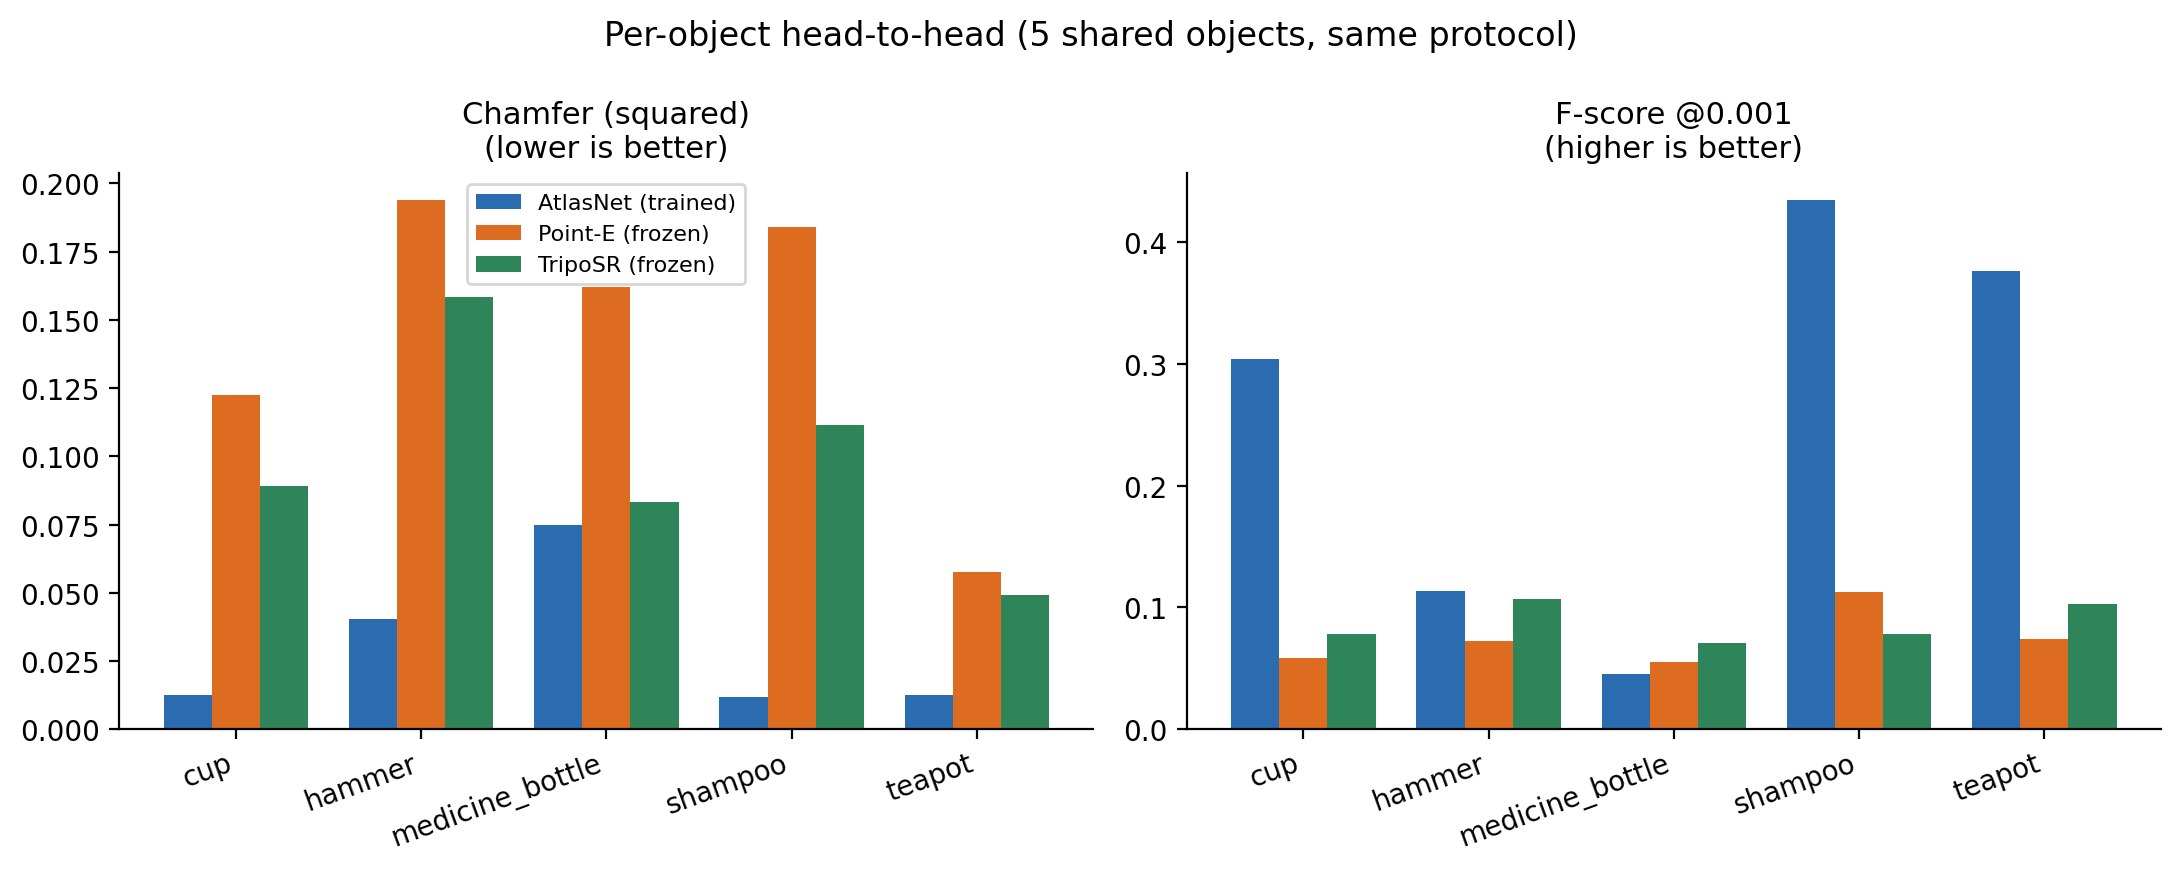
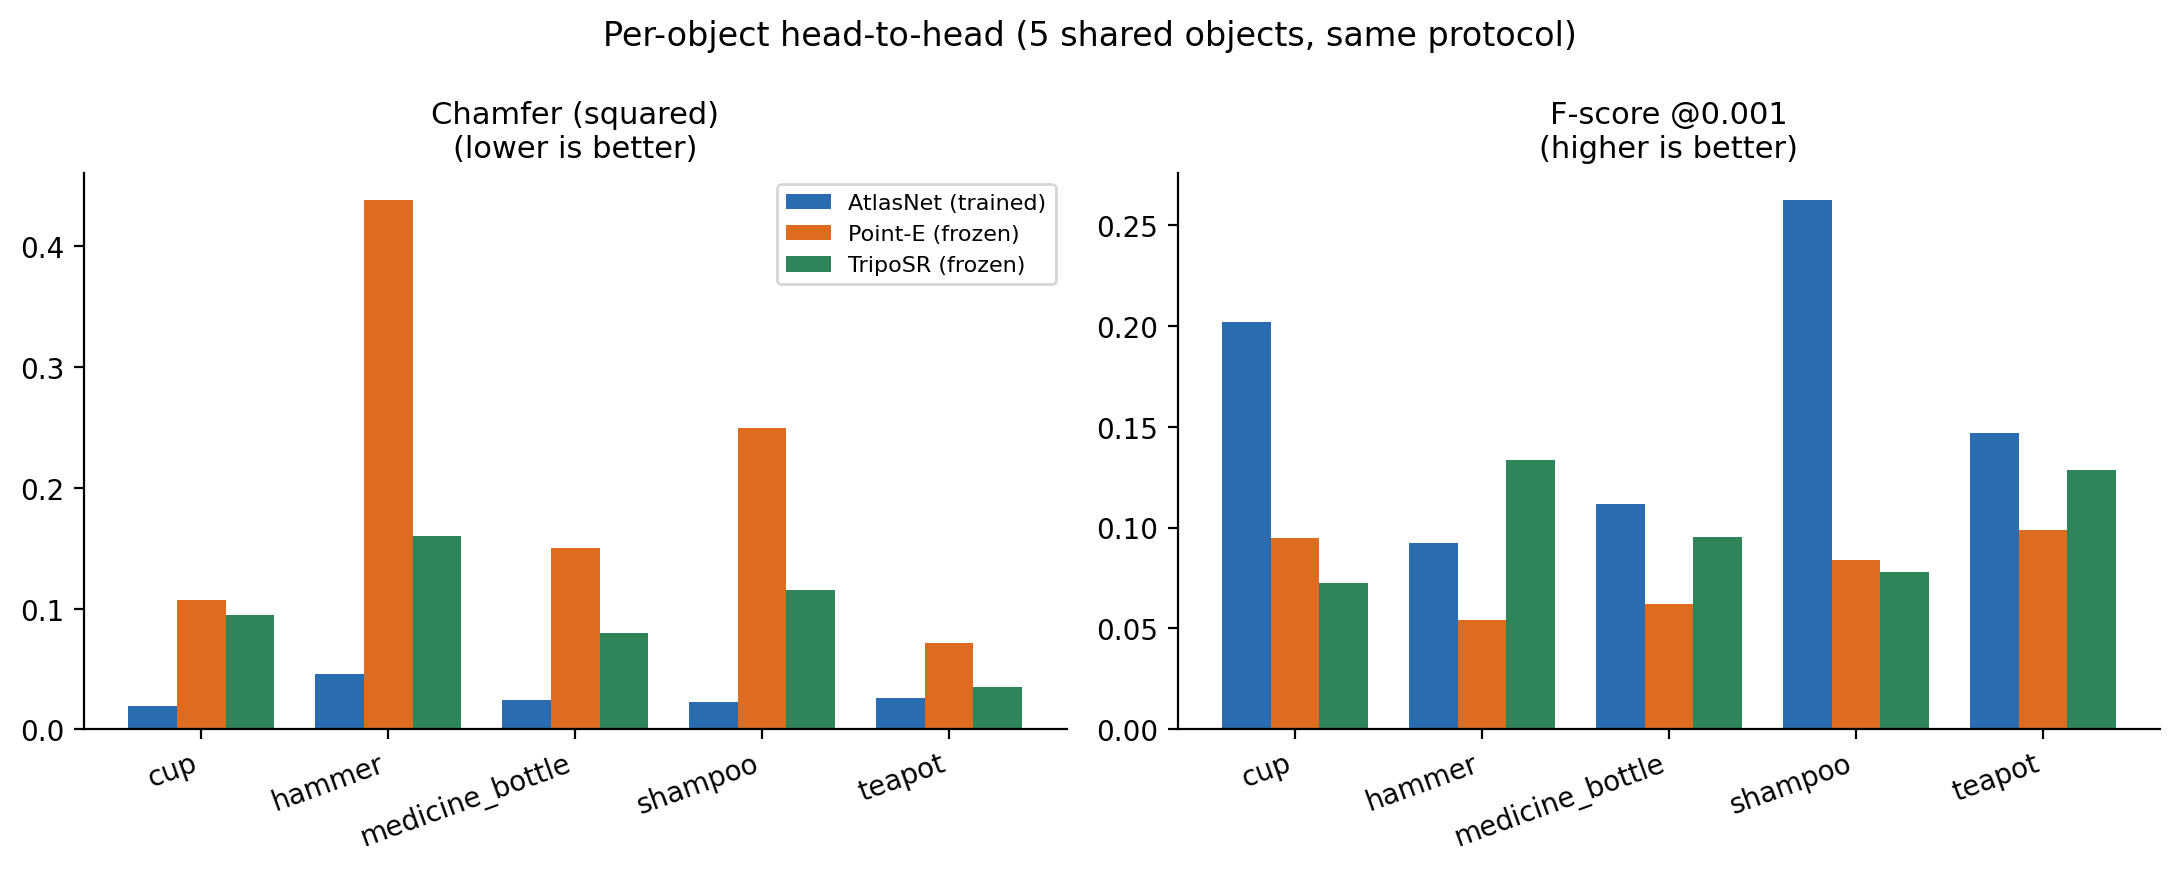
Rework (dataset fix): rebuilt ablation tables, cross table, figures

diff --git a/nesegemaa/REPORT.md b/nesegemaa/REPORT.md
@@ -7,63 +7,63 @@ Protocol (all numbers): splits.json test lists, view `00.png` unless noted, Unit
 
 | run | K_views | pool | patches | template | bottleneck | encoder_train | aug | loss | lr | batch | seed | best_chamfer | best_fscore | status |
 | --- | --- | --- | --- | --- | --- | --- | --- | --- | --- | --- | --- | --- | --- | --- |
-| a1_k3_max | 3 | max | 25 | SQUARE | 1024 | finetuned | none | chamfer | 0.001 | 8 | -1 | 0.04651217204001215 | 0.09291193634271622 | OK |
-| a1_k3_attn | 3 | attn | 25 | SQUARE | 1024 | finetuned | none | chamfer | 0.001 | 8 | -1 | 0.06574219548039967 | 0.09488141702281104 | OK |
-| a1_k5_max | 5 | max | 25 | SQUARE | 1024 | finetuned | none | chamfer | 0.001 | 8 | -1 | 0.053737382094065346 | 0.09317540046241549 | OK |
-| a1_k5_attn | 5 | attn | 25 | SQUARE | 1024 | finetuned | none | chamfer | 0.001 | 8 | -1 | 0.056586981233623296 | 0.09636813484960133 | OK |
-| a1_k8_max | 8 | max | 25 | SQUARE | 1024 | finetuned | none | chamfer | 0.001 | 8 | -1 | 0.06599624206622441 | 0.08251947744025125 | OK |
-| a1_k8_attn | 8 | attn | 25 | SQUARE | 1024 | finetuned | none | chamfer | 0.001 | 8 | -1 | 0.060704423735539116 | 0.08377090841531754 | OK |
-| a2_p1_sq | 1 | none | 1 | SQUARE | 1024 | finetuned | none | chamfer | 0.001 | 8 | -1 | 0.04561556213431888 | 0.08204326530297597 | OK |
-| a2_p10_sq | 1 | none | 10 | SQUARE | 1024 | finetuned | none | chamfer | 0.001 | 8 | -1 | 0.1267646989888615 | 0.07854702572027843 | OK |
-| a2_p25_sphere | 1 | none | 25 | SPHERE | 1024 | finetuned | none | chamfer | 0.001 | 8 | -1 | 0.036068759858608246 | 0.13152664485904905 | OK |
-| a2_p25_4096 | 1 | none | 25 | SQUARE | 1024 | finetuned | none | chamfer | 0.001 | 8 | -1 | 0.04688040167093277 | 0.08909631354941262 | OK |
-| a2_p25_bn512 | 1 | none | 25 | SQUARE | 512 | finetuned | none | chamfer | 0.001 | 8 | -1 | 0.0831894502043724 | 0.07906718138191435 | OK |
-| a3_lr3e4 | 1 | none | 25 | SQUARE | 1024 | finetuned | none | chamfer | 0.0003 | 8 | -1 | 0.16403056184450784 | 0.08060628506872389 | OK |
-| a3_bs16 | 1 | none | 25 | SQUARE | 1024 | finetuned | none | chamfer | 0.001 | 16 | -1 | 0.05010243091318342 | 0.08558411813444561 | OK |
-| a3_bs32 | 1 | none | 25 | SQUARE | 1024 | finetuned | none | chamfer | 0.001 | 32 | -1 | 0.05285551274816195 | 0.09421329448620479 | OK |
-| a3_aug_rot | 1 | none | 25 | SQUARE | 1024 | finetuned | random_rotation | chamfer | 0.001 | 8 | -1 | 0.05411182799273067 | 0.08615856245160103 | OK |
-| a3_aug_flip | 1 | none | 25 | SQUARE | 1024 | finetuned | data_augmentation_random_flips | chamfer | 0.001 | 8 | -1 | 0.07557891764574581 | 0.08232646435499191 | OK |
-| a3_aug_aniso | 1 | none | 25 | SQUARE | 1024 | finetuned | anisotropic_scaling | chamfer | 0.001 | 8 | -1 | 0.0444109116991361 | 0.09440010123782688 | OK |
-| a3_frozen | 1 | none | 25 | SQUARE | 1024 | frozen | none | chamfer | 0.001 | 8 | -1 | 0.04212144927846061 | 0.1064375498228603 | OK |
-| a2_p25_sphere_s7 | 1 | none | 25 | SPHERE | 1024 | finetuned | none | chamfer | 0.001 | 8 | 7 | 0.03476879600849417 | 0.14631705234448114 | OK |
-| a2_p25_sphere_s123 | 1 | none | 25 | SPHERE | 1024 | finetuned | none | chamfer | 0.001 | 8 | 123 | 0.035711860905090966 | 0.14896801031298107 | OK |
-| a4_edge1e3 | 1 | none | 25 | SQUARE | 1024 | finetuned | none | chamfer+edge | 0.001 | 8 | -1 | 0.0449589958621396 | 0.0915172580215666 | OK |
-| a4_edge1e2 | 1 | none | 25 | SQUARE | 1024 | finetuned | none | chamfer+edge | 0.001 | 8 | -1 | 0.06704063506589995 | 0.09287349300252067 | OK |
+| a1_k3_max | 3 | max | 25 | SQUARE | 1024 | finetuned | none | chamfer | 0.001 | 8 | -1 | 0.0521612883441978 | 0.08339518639776441 | OK |
+| a1_k3_attn | 3 | attn | 25 | SQUARE | 1024 | finetuned | none | chamfer | 0.001 | 8 | -1 | 0.0433131969637341 | 0.08691756427288055 | OK |
+| a1_k5_max | 5 | max | 25 | SQUARE | 1024 | finetuned | none | chamfer | 0.001 | 8 | -1 | 0.059123086432615914 | 0.07589853803316753 | OK |
+| a1_k5_attn | 5 | attn | 25 | SQUARE | 1024 | finetuned | none | chamfer | 0.001 | 8 | -1 | 0.04124867543578148 | 0.09545483522944981 | OK |
+| a1_k8_max | 8 | max | 25 | SQUARE | 1024 | finetuned | none | chamfer | 0.001 | 8 | -1 | 0.052312228828668594 | 0.08982537521256341 | OK |
+| a1_k8_attn | 8 | attn | 25 | SQUARE | 1024 | finetuned | none | chamfer | 0.001 | 8 | -1 | 0.06762129523687893 | 0.07019212635027038 | OK |
+| a2_p1_sq | 1 | none | 1 | SQUARE | 1024 | finetuned | none | chamfer | 0.001 | 8 | -1 | 0.04238425816098849 | 0.08601735863420698 | OK |
+| a2_p10_sq | 1 | none | 10 | SQUARE | 1024 | finetuned | none | chamfer | 0.001 | 8 | -1 | 0.06247394159436226 | 0.07881299406290054 | OK |
+| a2_p25_sphere | 1 | none | 25 | SPHERE | 1024 | finetuned | none | chamfer | 0.001 | 8 | -1 | 0.03473327370981375 | 0.12748425867822435 | OK |
+| a2_p25_4096 | 1 | none | 25 | SQUARE | 1024 | finetuned | none | chamfer | 0.001 | 8 | -1 | 0.03996867396765285 | 0.10749444282717174 | OK |
+| a2_p25_bn512 | 1 | none | 25 | SQUARE | 512 | finetuned | none | chamfer | 0.001 | 8 | -1 | 0.04793103080656794 | 0.07829489145014021 | OK |
+| a3_lr3e4 | 1 | none | 25 | SQUARE | 1024 | finetuned | none | chamfer | 0.0003 | 8 | -1 | 0.06389947856465976 | 0.0650663288931052 | OK |
+| a3_bs16 | 1 | none | 25 | SQUARE | 1024 | finetuned | none | chamfer | 0.001 | 16 | -1 | 0.05348332391844855 | 0.10040643976794349 | OK |
+| a3_bs32 | 1 | none | 25 | SQUARE | 1024 | finetuned | none | chamfer | 0.001 | 32 | -1 | 0.049700293276045054 | 0.08975647224320306 | OK |
+| a3_aug_rot | 1 | none | 25 | SQUARE | 1024 | finetuned | random_rotation | chamfer | 0.001 | 8 | -1 | 0.04201140130559603 | 0.09845845152934392 | OK |
+| a3_aug_flip | 1 | none | 25 | SQUARE | 1024 | finetuned | data_augmentation_random_flips | chamfer | 0.001 | 8 | -1 | 0.08195297999514474 | 0.09162643220689562 | OK |
+| a3_aug_aniso | 1 | none | 25 | SQUARE | 1024 | finetuned | anisotropic_scaling | chamfer | 0.001 | 8 | -1 | 0.04606790840625763 | 0.08075466089778477 | OK |
+| a3_frozen | 1 | none | 25 | SQUARE | 1024 | frozen | none | chamfer | 0.001 | 8 | -1 | 0.0394778230951892 | 0.11765896032253902 | OK |
+| a4_edge1e3 | 1 | none | 25 | SQUARE | 1024 | finetuned | none | chamfer+edge | 0.001 | 8 | -1 | 0.06609317784508069 | 0.0860129478904936 | OK |
+| a4_edge1e2 | 1 | none | 25 | SQUARE | 1024 | finetuned | none | chamfer+edge | 0.001 | 8 | -1 | 0.05640431410736508 | 0.08338744772805108 | OK |
+| a2_p25_sphere_s7 | 1 | none | 25 | SPHERE | 1024 | finetuned | none | chamfer | 0.001 | 8 | 7 | 0.0336735470013486 | 0.14220897439453337 | OK |
+| a2_p25_sphere_s123 | 1 | none | 25 | SPHERE | 1024 | finetuned | none | chamfer | 0.001 | 8 | 123 | 0.03260621904499001 | 0.1346580046746466 | OK |
 
 ## Point-E sweeps
 
 | tag | views | fusion | preprocessing | guidance | points | seeds | denoise | n_objects | micro_chamfer | micro_fscore | macro_chamfer | macro_fscore | noise |
 | --- | --- | --- | --- | --- | --- | --- | --- | --- | --- | --- | --- | --- | --- |
-| default | [0] | first | masked | 3.0 | 4096 | [0] | False | 5 | 0.1439457853191123 | 0.0744628 | 0.1439457853191123 | 0.0744628 | cup,hammer,medicine_bottle,shampoo,teapot |
-| p1_best | [0, 8, 16] | best | masked | 3.0 | 4096 | [0] | False | 5 | 0.13173838414722905 | 0.0695824 | 0.13173838414722905 | 0.0695824 | cup,hammer,medicine_bottle,shampoo,teapot |
-| p1_median | [0, 8, 16] | median | masked | 3.0 | 4096 | [0] | False | 5 | 0.13527812532689026 | 0.0670352 | 0.13527812532689026 | 0.0670352 | cup,hammer,medicine_bottle,shampoo,teapot |
-| p1_v12 | [12] | first | masked | 3.0 | 4096 | [0] | False | 5 | 0.1416561929122874 | 0.083816 | 0.1416561929122874 | 0.083816 | cup,hammer,medicine_bottle,shampoo,teapot |
-| p2_1k | [0] | first | masked | 3.0 | 1024 | [0] | False | 5 | 0.1440087181346126 | 0.0510518 | 0.14400871813461258 | 0.0510518 | cup,hammer,medicine_bottle,shampoo,teapot |
-| p2_g1 | [0] | first | masked | 1.0 | 4096 | [0] | False | 5 | 0.14752660268463258 | 0.102074 | 0.14752660268463258 | 0.102074 | cup,hammer,medicine_bottle,shampoo,teapot |
-| p2_g3.0_s012_1k | [0] | first | masked | 3.0 | 1024 | [0, 1, 2] | False | 5 | 0.144798864919689 | 0.05433186666666667 | 0.14479886491968902 | 0.05433186666666667 | cup,hammer,medicine_bottle,shampoo,teapot |
-| p2_g3.0_s012_4k | [0] | first | masked | 3.0 | 4096 | [0, 1, 2] | False | 5 | 0.14373993246735786 | 0.08383533333333335 | 0.14373993246735783 | 0.08383533333333335 | cup,hammer,medicine_bottle,shampoo,teapot |
-| p2_g5 | [0] | first | masked | 5.0 | 4096 | [0] | False | 5 | 0.14296729142857303 | 0.0769158 | 0.14296729142857303 | 0.0769158 | cup,hammer,medicine_bottle,shampoo,teapot |
-| p3_crop | [0] | first | crop | 3.0 | 4096 | [0] | False | 5 | 0.14264470224822512 | 0.0715946 | 0.14264470224822512 | 0.07159460000000001 | cup,hammer,medicine_bottle,shampoo,teapot |
-| p3_raw | [0] | first | raw | 3.0 | 4096 | [0] | False | 5 | 0.14035585705807435 | 0.07553299999999999 | 0.14035585705807435 | 0.07553299999999999 | cup,hammer,medicine_bottle,shampoo,teapot |
-| p4_den | [0] | first | masked | 3.0 | 4096 | [0] | True | 5 | 0.14413339946576942 | 0.07436680000000001 | 0.14413339946576947 | 0.0743668 | cup,hammer,medicine_bottle,shampoo,teapot |
+| default | [0] | first | masked | 3.0 | 4096 | [0] | False | 5 | 0.20332672438583033 | 0.07868939999999999 | 0.20332672438583033 | 0.0786894 | cup,hammer,medicine_bottle,shampoo,teapot |
+| p1_best | [0, 8, 16] | best | masked | 3.0 | 4096 | [0] | False | 5 | 0.19411219153044254 | 0.07886499999999999 | 0.19411219153044257 | 0.07886499999999999 | cup,hammer,medicine_bottle,shampoo,teapot |
+| p1_median | [0, 8, 16] | median | masked | 3.0 | 4096 | [0] | False | 5 | 0.19835343525010168 | 0.0787018 | 0.19835343525010168 | 0.0787018 | cup,hammer,medicine_bottle,shampoo,teapot |
+| p1_v12 | [12] | first | masked | 3.0 | 4096 | [0] | False | 5 | 0.20713764280562788 | 0.08070639999999998 | 0.20713764280562788 | 0.0807064 | cup,hammer,medicine_bottle,shampoo,teapot |
+| p2_1k | [0] | first | masked | 3.0 | 1024 | [0] | False | 5 | 0.20025228746243978 | 0.0492142 | 0.20025228746243978 | 0.0492142 | cup,hammer,medicine_bottle,shampoo,teapot |
+| p2_g1 | [0] | first | masked | 1.0 | 4096 | [0] | False | 5 | 0.20254151167072293 | 0.0760358 | 0.20254151167072293 | 0.07603580000000001 | cup,hammer,medicine_bottle,shampoo,teapot |
+| p2_g3.0_s012_1k | [0] | first | masked | 3.0 | 1024 | [0, 1, 2] | False | 5 | 0.20789092431558384 | 0.0487512 | 0.20789092431558384 | 0.0487512 | cup,hammer,medicine_bottle,shampoo,teapot |
+| p2_g3.0_s012_4k | [0] | first | masked | 3.0 | 4096 | [0, 1, 2] | False | 5 | 0.20826756265235993 | 0.0761628 | 0.20826756265235993 | 0.0761628 | cup,hammer,medicine_bottle,shampoo,teapot |
+| p2_g5 | [0] | first | masked | 5.0 | 4096 | [0] | False | 5 | 0.2080395030688515 | 0.068112 | 0.2080395030688515 | 0.068112 | cup,hammer,medicine_bottle,shampoo,teapot |
+| p3_crop | [0] | first | crop | 3.0 | 4096 | [0] | False | 5 | 0.20065024882644417 | 0.0827204 | 0.20065024882644417 | 0.0827204 | cup,hammer,medicine_bottle,shampoo,teapot |
+| p3_raw | [0] | first | raw | 3.0 | 4096 | [0] | False | 5 | 0.19820106142768 | 0.0860236 | 0.19820106142768 | 0.0860236 | cup,hammer,medicine_bottle,shampoo,teapot |
+| p4_den | [0] | first | masked | 3.0 | 4096 | [0] | True | 5 | 0.20369728598431927 | 0.07805779999999998 | 0.20369728598431927 | 0.0780578 | cup,hammer,medicine_bottle,shampoo,teapot |
 
 ## TripoSR sweeps
 
 | tag | view | preprocessing | points | mc_resolution | n_objects | micro_chamfer | micro_fscore | macro_chamfer | macro_fscore | noise |
 | --- | --- | --- | --- | --- | --- | --- | --- | --- | --- | --- |
-| default | 0 | masked | 4096 | 128 | 5 | 0.09820158149025601 | 0.08756359999999999 | 0.09820158149025604 | 0.0875636 | cup,hammer,medicine_bottle,shampoo,teapot |
-| crop | 0 | crop | 4096 | 128 | 5 | 0.1097147839204073 | 0.0779122 | 0.1097147839204073 | 0.0779122 | cup,hammer,medicine_bottle,shampoo,teapot |
-| raw | 0 | raw | 4096 | 128 | 5 | 0.10314921769205462 | 0.06974440000000001 | 0.10314921769205461 | 0.0697444 | cup,hammer,medicine_bottle,shampoo,teapot |
+| default | 0 | masked | 4096 | 128 | 5 | 0.09691283734649064 | 0.1015774 | 0.09691283734649063 | 0.1015774 | cup,hammer,medicine_bottle,shampoo,teapot |
+| crop | 0 | crop | 4096 | 128 | 5 | 0.12632828721896522 | 0.07211700000000001 | 0.12632828721896522 | 0.072117 | cup,hammer,medicine_bottle,shampoo,teapot |
+| raw | 0 | raw | 4096 | 128 | 5 | 0.1257322609877544 | 0.0697706 | 0.12573226098775442 | 0.0697706 | cup,hammer,medicine_bottle,shampoo,teapot |
 
 ## Cross-model (shared objects)
 
 | object | atlas_run | atlas_ch | atlas_f | pointe_ch | pointe_f | triposr_ch | triposr_f |
 | --- | --- | --- | --- | --- | --- | --- | --- |
-| cup_cup_003 | a2_p25_sphere_s7 | 0.01271540539993973 | 0.30408388184934637 | 0.12231496036544376 | 0.058212 | 0.0889766796806367 | 0.078613 |
-| hammer_hammer_011 | a2_p25_sphere_s7 | 0.04039657617589024 | 0.11378251884741587 | 0.19395787852503654 | 0.072671 | 0.158284738432672 | 0.106896 |
-| medicine_bottle_medicine_bottle_068 | a2_p25_sphere_s7 | 0.07484982794340346 | 0.04558537024685491 | 0.16207312387126338 | 0.05494 | 0.08331780645008555 | 0.071276 |
-| shampoo_shampoo_003 | a2_p25_sphere_s7 | 0.011733729480746155 | 0.43445457075300914 | 0.18389601957023 | 0.112409 | 0.11138122294242224 | 0.078353 |
-| teapot_teapot_003 | a2_p25_sphere_s7 | 0.012690148160550637 | 0.3760394522053049 | 0.05748694426358795 | 0.074082 | 0.04904745994546364 | 0.10268 |
+| cup_cup_003 | a2_p25_sphere_s123 | 0.0193967250016871 | 0.20162363971295663 | 0.10699594428385201 | 0.09461 | 0.09440701112212085 | 0.072458 |
+| hammer_hammer_011 | a2_p25_sphere_s123 | 0.045494486665871414 | 0.09239245612961042 | 0.43845002656749804 | 0.05443 | 0.16023575031733592 | 0.133347 |
+| medicine_bottle_medicine_bottle_068 | a2_p25_sphere_s123 | 0.024229899533997602 | 0.1114832435297787 | 0.1502299554952804 | 0.061902 | 0.07953003197105919 | 0.095453 |
+| shampoo_shampoo_003 | a2_p25_sphere_s123 | 0.02294334608266027 | 0.26235754722895344 | 0.24924490879474037 | 0.083803 | 0.11538578981468056 | 0.077896 |
+| teapot_teapot_003 | a2_p25_sphere_s123 | 0.02586141212538566 | 0.1470207202611249 | 0.0717127867877809 | 0.098702 | 0.035005603507256663 | 0.128733 |
 
 ## Interpretation
 
